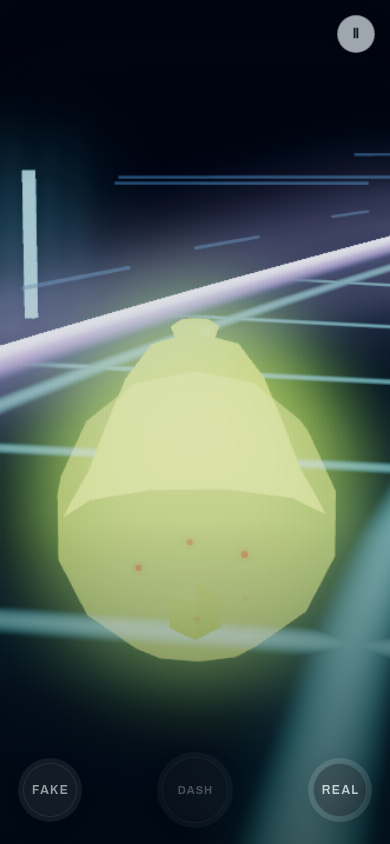
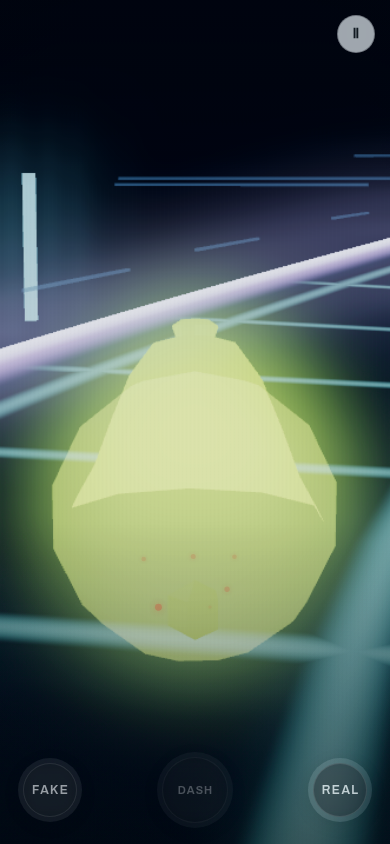
N9 — the rest of the world's emissives, and the one that stays as it is
dev/measure-emissives.mjs is new and is the point of this commit: what does
each surface actually PEAK at, in the linear space the tone map and the
bright pass see. A light that never crosses 1.0 can never roll to white and
can never be more than a smudge in the bloom — which is why turning bloom
strength up did nothing for a whole pass. The coefficients are PARSED out of
the source, not mirrored, because a drifted mirror is exactly how this
project has twice been sent chasing a problem that had already moved.

## The stanchions were clamped at the top

    setFlow(factor) { this.mat.opacity = Math.min(1, 0.45 + 0.38 * factor); }

Measured: at full flow that asks for 1.115 and gets 1.000. The one element
in the world whose own note says it "carries the arcade pulse hardest of
anything" stopped pulsing at precisely the chain that earned it.

On an ADDITIVE material this number multiplies the colour before adding, so
past 1.0 is legal and is exactly what carries a stanchion through the tone
map's shoulder into white. The curve is re-fitted so the RESTING brightness
is unchanged — 0.748 at chain zero where it was 0.746 — and every bit of the
new headroom sits above it. Brilliance stays earned; it just stops being
confiscated. Peak 1.000 -> 1.505.

It works because the bright pass renders into a HALF-FLOAT target: GL clamps
blend factors to [0,1] for fixed-point buffers and not for floating-point
ones. Under the opt-in BROADCAST look, whose target is 8-bit, it degrades
[…]

diff --git a/src/render/speed-fantasy.js b/src/render/speed-fantasy.js
@@ -18,6 +18,7 @@
 
 import * as THREE from 'three';
 import TUNING from '../TUNING.js';
+import { ACCESS } from '../ui/access.js';
 
 const R = TUNING.RUN;
 const CU = TUNING.CUES;
@@ -63,7 +64,8 @@ export class WindStreaks {
     // dash burst can push the streaks up from nothing even at a walking pace
     // — deliberately: the player must SEE the mechanic the first time.
     const vis = Math.max(0, (n - CU.STREAK_START) / (1 - CU.STREAK_START));
-    this.lines.material.opacity = Math.min(1, vis) * CU.STREAK_OPACITY;
+    this.lines.material.opacity = Math.min(1, vis) * CU.STREAK_OPACITY *
+      (ACCESS.reducedFlash ? CU.ACCESS_STREAK_SCALE : 1);
     this.lines.visible = vis > 0.001;
     if (!this.lines.visible) return;
 
@@ -110,7 +112,24 @@ export class TrackPylons {
   /** Flow (Phase 9): the stanchions are the marquee bulbs — they carry
    *  the arcade pulse hardest of anything in the world. */
   setFlow(factor) {
-    this.mat.opacity = Math.min(1, 0.45 + 0.38 * factor);
+    // N9 — no Math.min here, and that is the whole point.
+    //
+    // Additive blending multiplies the colour by this before adding it, so a
+    // value past 1.0 is legal and is exactly what carries a stanchion past
+    // the tone map's shoulder into white. Measured, the old clamp pinned it
+    // at 1.000 while flow was already asking for 1.115: the one element in
+    // the world whose own note says it "carries the arcade pulse hardest of
+    // anything" stopped pulsing at precisely the chain that earned it.
+    //
+    // The curve is re-fitted so the RESTING brightness is unchanged — 0.748
+    // at chain zero, where it was 0.746 — and the headroom is all above.
+    // Brilliance stays earned; it just stops being confiscated at the top.
+    //
+    // It works because the bright pass renders into a HALF-FLOAT target: GL
+    // clamps blend factors to [0,1] for fixed-point buffers and does not for
+    // floating-point ones. Under the opt-in BROADCAST look, whose target is
+    // 8-bit, this degrades back to the old ceiling rather than breaking.
+    this.mat.opacity = 0.14 + 0.78 * factor;
   }
 
   update(playerD) {

diff --git a/src/TUNING.js b/src/TUNING.js
@@ -401,7 +401,18 @@ export const TUNING = {
   CUES: {
     // Wind streaks. Silent below START, a torrent at the ceiling.
     STREAK_START: 0.30,        // speedN the streaks fade in from (was 0.40)
-    STREAK_OPACITY: 0.55,      // peak opacity of the streak lines (was 0.50)
+    // N9: 0.55 -> 1.35. Measured, the streaks peaked at 0.550 radiance —
+    // they could never roll to white and were never more than a smudge in
+    // the bright pass. On an ADDITIVE material this number is a multiplier
+    // on the colour before it is added, so past 1.0 is legal and is exactly
+    // what the reference's speed streaking is made of.
+    STREAK_OPACITY: 1.35,      // peak multiplier on the streak lines
+    // ...and the accessibility path they never had. The camera scales every
+    // speed-keyed term by ACCESS_MOTION_SCALE because "an aggressive
+    // speed-keyed rig is a nausea vector"; the streaks are the strongest
+    // motion cue in the frame and had no REDUCED FLASH handling at all,
+    // which was survivable at 0.55 and would not be at 1.35.
+    ACCESS_STREAK_SCALE: 0.45,
     STREAK_LEN_M: 8,           // streak length added across the range
     STREAK_RUSH: 1.35,         // world m/s past the camera, per m/s of speed
     STREAK_DASH: 0.35,         // sustained bump to speedN while dashing
